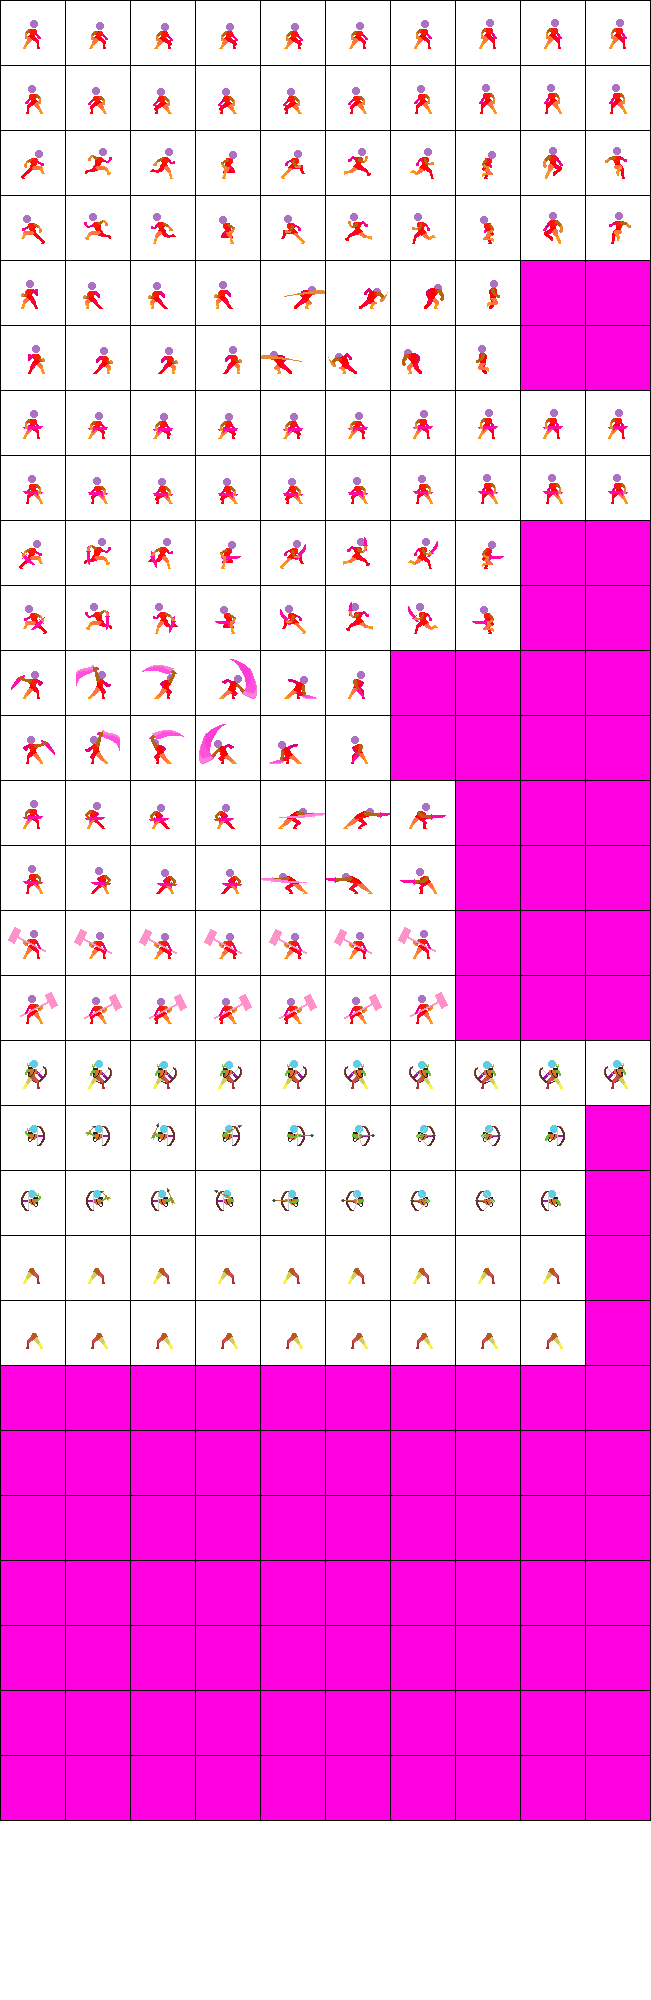
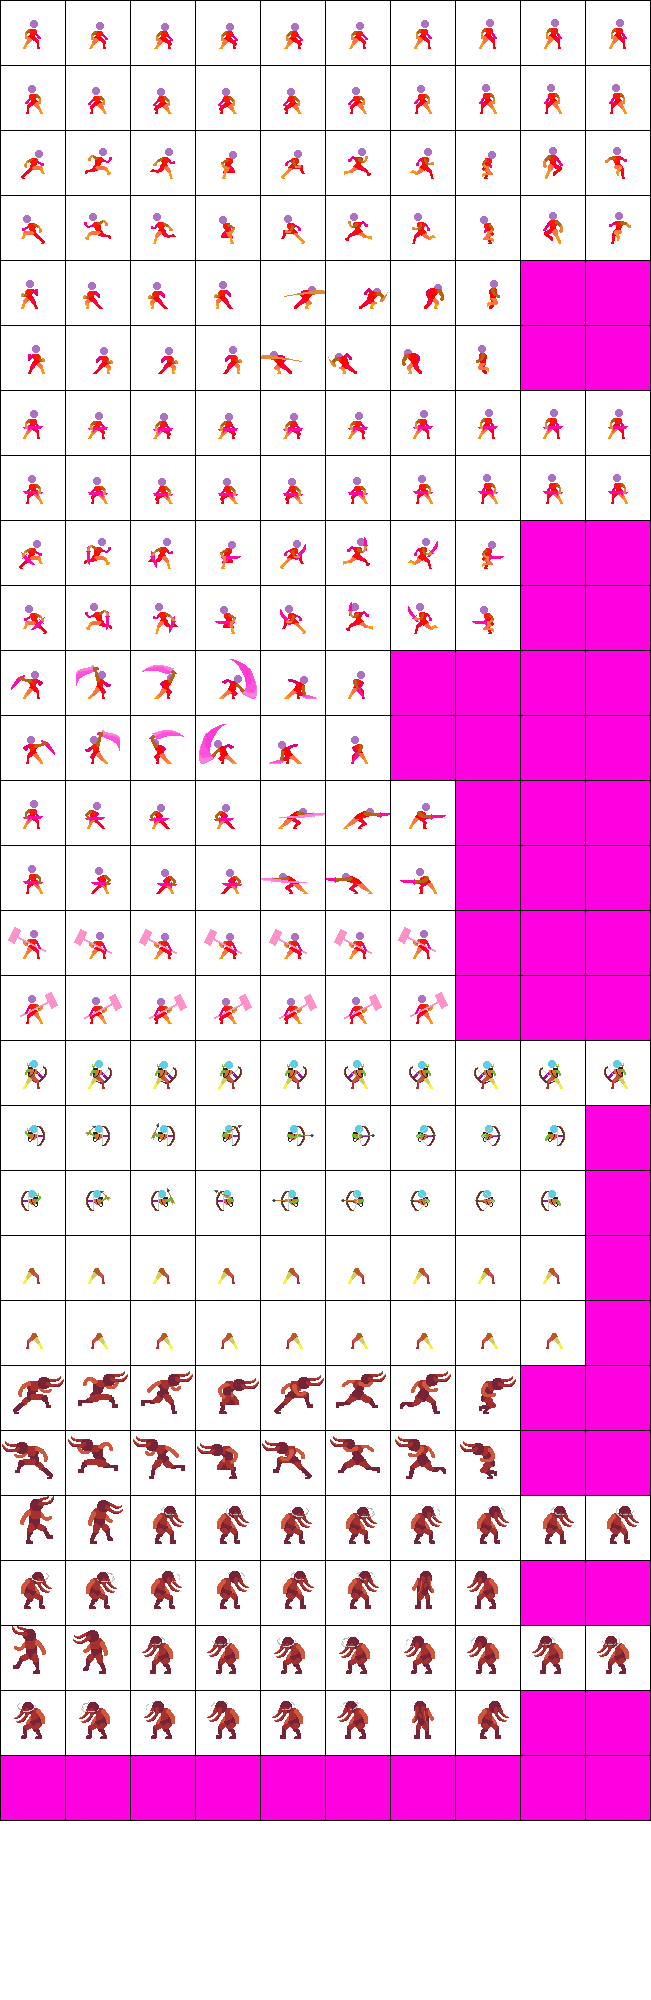
Added the bull enemy

Changed region(s): [[0.0, 0.682, 1.0, 0.899]]

diff --git a/GameProject2023/src/game_objects/BullEnemy.java b/GameProject2023/src/game_objects/BullEnemy.java
@@ -1,0 +1,201 @@
+package game_objects;
+
+import static framework.GameConstants.ScaleConstants.PLAYER_HEIGHT;
+import static framework.GameConstants.ScaleConstants.PLAYER_WIDTH;
+
+import java.awt.Graphics;
+import java.awt.Rectangle;
+
+import abstract_objects.Creature;
+import abstract_objects.GameObject;
+import framework.ObjectHandler;
+import framework.ObjectId;
+import framework.ObjectId.Category;
+import framework.TextureLoader;
+import framework.TextureLoader.TextureName;
+import main.Game;
+import window.Animation;
+
+public class BullEnemy extends Creature {
+	
+	private ObjectHandler objectHandler;
+	private Player player;
+
+	private float runningSpeed = 3f;
+
+	private boolean stunnedByWall = false;
+	
+	private Animation[] runAnimation;
+	private Animation[] stunAnimation;
+	
+	public BullEnemy(int x, int y, ObjectHandler objectHandler) {
+		super(x, y, PLAYER_WIDTH, PLAYER_HEIGHT, 25, 150, 70, new ObjectId(ObjectId.Category.Enemy, ObjectId.Name.BullEnemy));		
+		this.objectHandler = objectHandler;
+		player = objectHandler.getPlayer();
+		
+		invulnerableDuration = 700;
+		velX = -runningSpeed;
+		
+		texture = TextureLoader.getInstance().getTextures(TextureName.BullEnemyRun)[0];
+		setupAnimations();
+	}
+
+	@Override
+	public void tick() {
+		x += velX;
+		y += velY;
+
+		if (falling || jumping) {
+			velY += GRAVITY;
+
+			if (velY > TERMINAL_VELOCITY)
+				velY = TERMINAL_VELOCITY;
+		}
+
+		if (!stunnedByWall)
+			direction = velX < 0 ? -1 : 1;
+		else {
+			// Get rid of the stun if the stun animation is finished.
+			if (stunAnimation[getIndexFromDirection()].isPlayedOnce()) {
+				stunnedByWall = false;
+				direction *= -1;
+			}
+		}
+		
+		if (invulnerable && (System.currentTimeMillis() - lastInvulnerableTimer >= invulnerableDuration))
+			invulnerable = false;
+		
+		if (!stunnedByWall)
+			handleAttacking();
+		handleBlockCollision();
+		
+		runAnimations();
+	}
+	
+	@Override
+	public void render(Graphics g) {
+		drawAnimations(g);
+	}
+
+	private void handleAttacking() {
+		if (getBounds().intersects(player.getBounds())) {
+			player.takeDamage(25);
+			player.applyKnockback(direction * runningSpeed / 2, -7f);
+		}
+	}
+	
+	private void handleBlockCollision() {
+		if (!stunnedByWall)
+			velX = direction * runningSpeed;
+		
+		for (GameObject other : objectHandler.getLayer(ObjectHandler.MIDDLE_LAYER)) {
+			// Collision with Blocks
+			if (other.getObjectId().getCategory() == Category.Block) {
+				Rectangle otherBounds = other.getBounds();
+
+				// Bottom collision
+				if (getBottomBounds().intersects(otherBounds)) {
+					y = other.getY() - height;
+					velY = 0;
+					falling = false;
+					jumping = false;
+				}
+				else
+					falling = true;
+				
+				if (!stunnedByWall && getHorizontalBounds().intersects(otherBounds)) {
+					// If the both the head and the body hit a wall, get stunned.
+					if (getWallCollisionBounds().intersects(otherBounds)) {
+						stunnedByWall = true;
+						Game.shakeCamera(15, 10);
+						resetStunAnimations();
+						velX = 0;
+					}
+					// If only the body hits a wall, turn back and keep running. 
+					else {
+						direction = -direction;
+						velX = direction * runningSpeed;
+					}
+				}
+			}
+		}
+	}
+	
+	@Override
+	public void takeDamage(int damageAmount) {
+		if (invulnerable)
+			return;
+		
+		lastInvulnerableTimer = System.currentTimeMillis();
+		invulnerable = true;
+		
+		setHealth(health - damageAmount);
+		objectHandler.addObject(new DamageNumberPopup(x + width / 3, y - height / 5, damageAmount, objectHandler), ObjectHandler.MENU_LAYER);
+		
+		if (health <= 0)
+			objectHandler.removeObject(this);
+	}
+	
+	// This enemy cannot be knocked back.
+	@Override
+	public void applyKnockback(float velX, float velY) {}
+	
+	private Rectangle getWallCollisionBounds() {
+		int boundsWidth = width / 2;
+		int boundsHeight = height / 4;
+		int boundsY = (int) y - boundsHeight;
+		int boundsX;
+		if (direction == 1)
+			boundsX = (int) (x + width);
+		else
+			boundsX = (int) (x - boundsWidth);
+		
+		return new Rectangle(boundsX, boundsY, boundsWidth, boundsHeight);
+	}
+
+	private void setupAnimations() {
+		TextureLoader textureLoader = TextureLoader.getInstance();
+
+		final int runDelay = 13;
+		runAnimation = new Animation[2];
+		runAnimation[0] = new Animation(textureLoader.getTexturesByDirection(TextureName.BullEnemyRun, 1),
+				runDelay, false);
+		runAnimation[1] = new Animation(textureLoader.getTexturesByDirection(TextureName.BullEnemyRun, -1),
+				runDelay, false);
+		
+		final int stuckDelay = 12;
+		stunAnimation = new Animation[2];
+		stunAnimation[0] = new Animation(textureLoader.getTexturesByDirection(TextureName.BullEnemyStunned, 1),
+				stuckDelay, true);
+		stunAnimation[1] = new Animation(textureLoader.getTexturesByDirection(TextureName.BullEnemyStunned, -1),
+				stuckDelay, true);
+	}
+	
+	private void runAnimations() {
+		int directionToIndex = getIndexFromDirection();
+		
+		if (!stunnedByWall)
+			runAnimation[directionToIndex].runAnimation();
+		else
+			stunAnimation[directionToIndex].runAnimation();
+	}
+
+	private void drawAnimations(Graphics g) {
+		int directionToIndex = getIndexFromDirection();
+		
+		if (!stunnedByWall)
+			runAnimation[directionToIndex].drawAnimation(g, (int) x - width / 2, (int) y - height / 2, width * 2, height * 2);
+		else
+			stunAnimation[directionToIndex].drawAnimation(g, (int) x - width / 2, (int) y - height / 2, width * 2, height * 2);
+	}
+	
+	private void resetStunAnimations() {
+		stunAnimation[0].resetAnimation();
+		stunAnimation[1].resetAnimation();
+	}
+	
+	public int getIndexFromDirection() {
+		return (-direction + 1) / 2;
+	}
+
+}

diff --git a/GameProject2023/src/framework/TextureLoader.java b/GameProject2023/src/framework/TextureLoader.java
@@ -10,6 +10,8 @@ public class TextureLoader {
 
 	public enum TextureName {
 		Missing,
+		
+		// Player / Weapons
 		PlayerIdle,
 		PlayerRun,
 		PlayerAttack,
@@ -29,6 +31,7 @@ public class TextureLoader {
 		PlayerHammerSwing,
 		PlayerHammerProjectile,
 		
+		// Enemies
 		BasicEnemyRun,
 		BasicEnemyAttack,
 		BasicEnemyIdle,
@@ -38,16 +41,22 @@ public class TextureLoader {
 		ArcherEnemyShootTorso,
 		ArcherEnemyShootLegs,
 		
+		BullEnemyRun,
+		BullEnemyStunned,
+		
+		// Tiles
 		StoneTiles,
 		GrassTiles,
 		RockTiles,
 		DiagonalStoneTiles,
 		WoodJumpThroughTiles,
 		
+		// Items
 		FisticuffsItem,
 		SwordItem,
 		HammerItem,
 		
+		// Projectiles
 		SwordProjectile,
 		ArrowProjectile,
 	}
@@ -278,6 +287,25 @@ public class TextureLoader {
 				textures[i] = enemySheet.getSubimage(1 + i * 65, 1236, 64, 64);
 				textures[i + 9] = enemySheet.getSubimage(1 + i * 65, 1301, 64, 64);
 			}
+			break;
+		case BullEnemyRun:
+			textures = new BufferedImage[16];
+			for (int i = 0; i < 8; i++) {
+				textures[i] = enemySheet.getSubimage(1 + i * 65, 1366, 64, 64);
+				textures[i + 8] = enemySheet.getSubimage(1 + i * 65, 1431, 64, 64);
+			}
+			break;
+			// TODO
+		case BullEnemyStunned:
+			textures = new BufferedImage[36];
+			for (int i = 0; i < 10; i++)
+				textures[i] = enemySheet.getSubimage(1 + i * 65, 1496, 64, 64);
+			for (int i = 0; i < 8; i++)
+				textures[i + 10] = enemySheet.getSubimage(1 + i * 65, 1561, 64, 64);
+			for (int i = 0; i < 10; i++)
+				textures[i + 18] = enemySheet.getSubimage(1 + i * 65, 1626, 64, 64);
+			for (int i = 0; i < 8; i++)
+				textures[i + 28] = enemySheet.getSubimage(1 + i * 65, 1691, 64, 64);
 			break;
 		}
 

diff --git a/GameProject2023/src/game_objects/BasicEnemy.java b/GameProject2023/src/game_objects/BasicEnemy.java
@@ -4,14 +4,11 @@ import static framework.GameConstants.ScaleConstants.PLAYER_HEIGHT;
 import static framework.GameConstants.ScaleConstants.PLAYER_WIDTH;
 
 import java.awt.Graphics;
-import java.awt.Rectangle;
 import java.awt.image.BufferedImage;
 
 import abstract_objects.Creature;
-import abstract_objects.GameObject;
 import framework.ObjectHandler;
 import framework.ObjectId;
-import framework.ObjectId.Category;
 import framework.TextureLoader;
 import framework.TextureLoader.TextureName;
 import window.Animation;
@@ -25,9 +22,6 @@ public class BasicEnemy extends Creature {
 	private int attackCooldown = 2000;
 	private long lastAttackTimer = attackCooldown;
 
-	private int invulnerableDuration = 700;
-	private long lastInvulnerableTimer = invulnerableDuration; 
-	
 //	private float runningSpeed = 3f;
 //	private float jumpingSpeed = -9f;
 	
@@ -115,7 +109,7 @@ public class BasicEnemy extends Creature {
 		invulnerable = true;
 		
 		setHealth(health - damageAmount);
-		objectHandler.addObject(new DamageNumberPopup(x + width / 2, y, damageAmount, objectHandler), ObjectHandler.MENU_LAYER);
+		objectHandler.addObject(new DamageNumberPopup(x + width / 3, y - height / 5, damageAmount, objectHandler), ObjectHandler.MENU_LAYER);
 		
 		if (health <= 0)
 			objectHandler.removeObject(this);

diff --git a/GameProject2023/src/framework/ObjectHandler.java b/GameProject2023/src/framework/ObjectHandler.java
@@ -12,6 +12,7 @@ import abstract_objects.TileOrientation;
 import framework.ObjectId.Name;
 import game_objects.ArcherEnemy;
 import game_objects.BasicEnemy;
+import game_objects.BullEnemy;
 import game_objects.DiagonalStoneTileBlock;
 import game_objects.GrassTileBlock;
 import game_objects.Player;
@@ -59,7 +60,7 @@ public class ObjectHandler {
 		this.mouseInput = mouseInput;
 
 		FileIO fileIO = new FileIO();
-		int[][] objectUIDs = fileIO.loadLevel("levels.txt", 0);
+		int[][] objectUIDs = fileIO.loadLevel("levels.txt", 1);
 		
 		for (int i = 0; i < TILE_ROWS; i++) {
 			for (int j = 0; j < TILE_COLUMNS; j++) {
@@ -187,6 +188,9 @@ public class ObjectHandler {
 			break;
 		case ArcherEnemy:
 			gameObject = new ArcherEnemy(x, y, this);
+			break;
+		case BullEnemy:
+			gameObject = new BullEnemy(x, y, this);
 			break;
 		case HUD:
 			gameObject = new HUD(x, y, TILE_SIZE * 3, TILE_SIZE / 2, player);

diff --git a/GameProject2023/src/game_objects/Player.java b/GameProject2023/src/game_objects/Player.java
@@ -52,7 +52,7 @@ public class Player extends Creature {
 
 		weapon = new SwordWeapon(objectHandler);
 
-		invulnerableDuration = 500;
+		invulnerableDuration = 700;
 		
 		animationHandler = new PlayerAnimationHandler(this);
 		jumpSprites = TextureLoader.getInstance().getTextures(TextureName.PlayerJump);
@@ -173,10 +173,14 @@ public class Player extends Creature {
 		invulnerable = true;
 
 		setHealth(health - damageAmount);
+		objectHandler.addObject(new DamageNumberPopup(x + width / 3, y - height / 5, damageAmount, objectHandler), ObjectHandler.MENU_LAYER);
 	}
 
 	@Override
 	public void applyKnockback(float velX, float velY) {
+		if (knockedBack && invulnerable)
+			return;
+		
 		knockedBack = true;
 		this.velX = velX;
 		this.velY = velY;

diff --git a/GameProject2023/src/framework/GameConstants.java b/GameProject2023/src/framework/GameConstants.java
@@ -27,7 +27,7 @@ public interface GameConstants {
 	}
 	
 	public static class FontConstants {
-		public static final Font DAMAGE_FONT = new Font("Calibri", Font.PLAIN, 16);
+		public static final Font DAMAGE_FONT = new Font("Calibri", Font.PLAIN, 20);
 	}
 	
 }

diff --git a/GameProject2023/src/framework/ObjectId.java b/GameProject2023/src/framework/ObjectId.java
@@ -33,9 +33,11 @@ public class ObjectId {
 	 */
 	public enum Name {
 		Missing(-1),
+		
 		Player(1),
 		BasicEnemy(2),
 		ArcherEnemy(3),
+		BullEnemy(4),
 
 		HUD(500),
 
